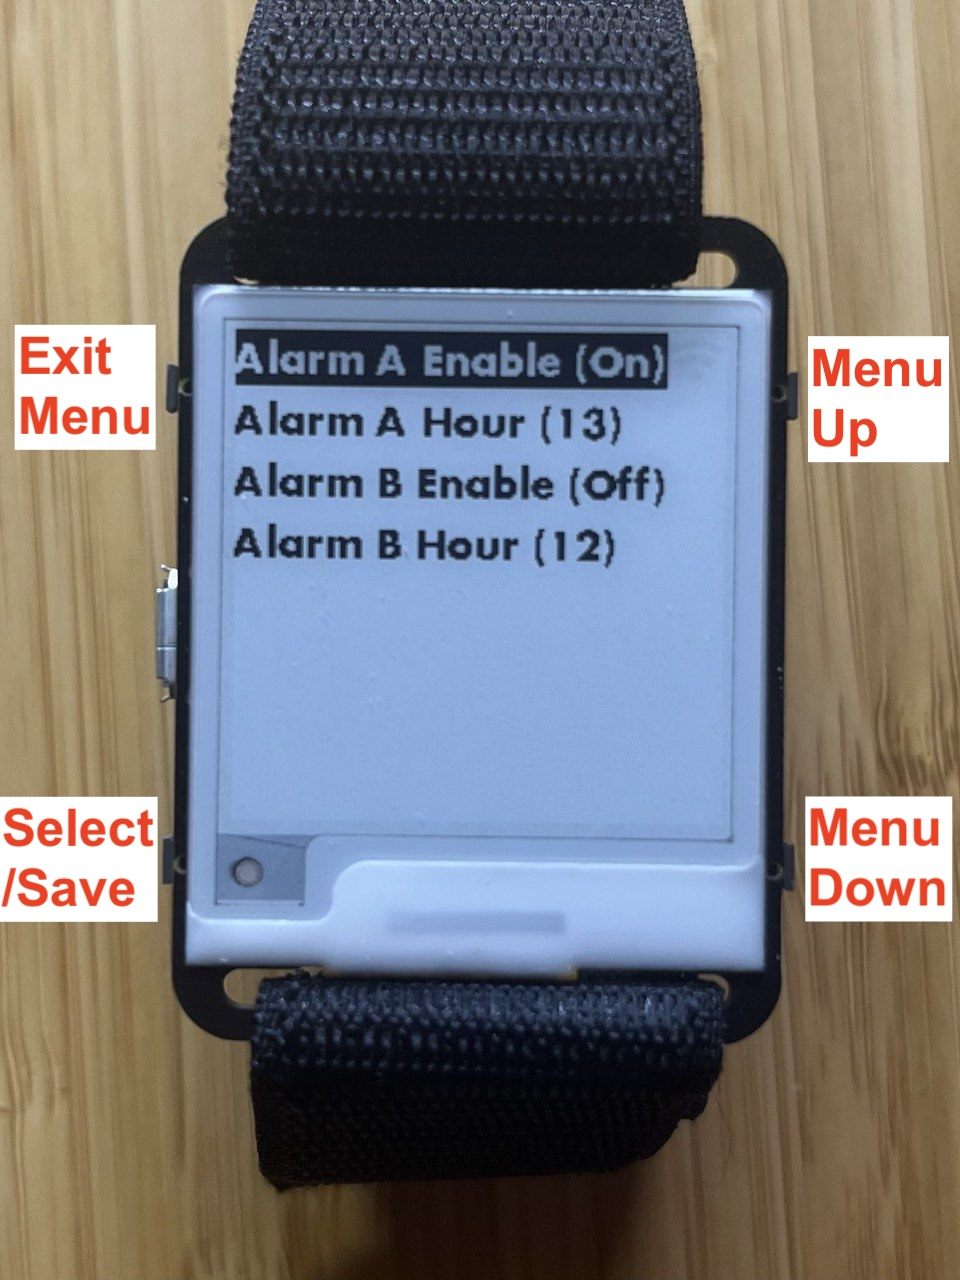
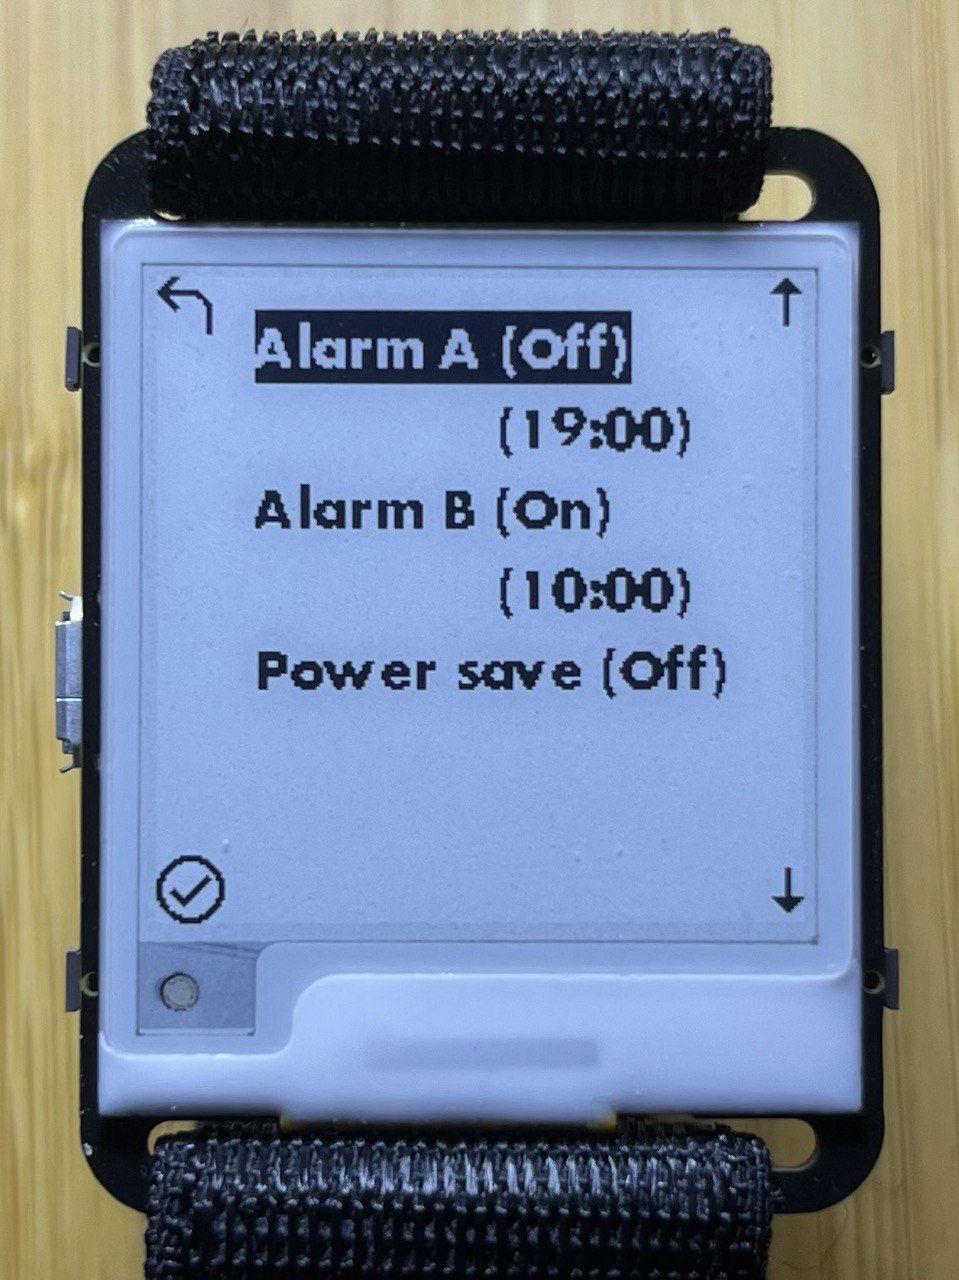
improvements to alarms feature

diff --git a/utils/generate-mdi.js b/utils/generate-mdi.js
@@ -1,39 +1,41 @@
 import * as fs from "fs";
 
-const required = fs
-  .readFileSync("../watchy.yaml")
-  .toString()
-  .match(/"\$mdi\w+?"/g)
-  .map((x) => x.replaceAll('"', "").replaceAll("$", ""));
+export default () => {
+  const required = fs
+    .readFileSync("../watchy.yaml")
+    .toString()
+    .match(/"\$mdi\w+?"/g)
+    .map((x) => x.replaceAll('"', "").replaceAll("$", ""));
 
-console.log(required.length, "icons required");
+  console.log(required.length, "icons required");
 
-function camelize(str) {
-  return str
-    .replace(/(?:^\w|[A-Z]|\b\w)/g, function (word, index) {
-      return index === 0 ? word.toLowerCase() : word.toUpperCase();
-    })
-    .replace(/\s+/g, "");
-}
+  function camelize(str) {
+    return str
+      .replace(/(?:^\w|[A-Z]|\b\w)/g, function (word, index) {
+        return index === 0 ? word.toLowerCase() : word.toUpperCase();
+      })
+      .replace(/\s+/g, "");
+  }
 
-const x = fs
-  .readFileSync("../fonts/mdi/scss/_variables.scss")
-  .toString()
-  .split("(")[1]
-  .split(")")[0]
-  .trim()
-  .split("\n")
-  .map((l) => l.trim().replaceAll('"', "").replaceAll(",", "").replaceAll("-", " ").split(": "))
-  .map(([name, code]) => [camelize("mdi " + name), code])
-  .filter(([name, code]) => required.includes(name));
+  const x = fs
+    .readFileSync("../fonts/mdi/scss/_variables.scss")
+    .toString()
+    .split("(")[1]
+    .split(")")[0]
+    .trim()
+    .split("\n")
+    .map((l) => l.trim().replaceAll('"', "").replaceAll(",", "").replaceAll("-", " ").split(": "))
+    .map(([name, code]) => [camelize("mdi " + name), code])
+    .filter(([name, code]) => required.includes(name));
 
-console.log(x.length);
+  console.log(x.length);
 
-fs.writeFileSync(
-  "../mdi.yaml",
-  x.map(([name, code]) => `${name}: "\\U000${code}"`).join("\n") + "\n"
-);
-fs.writeFileSync(
-  "../mdi.h",
-  x.map(([name, code]) => `const char *${name} = "\\U000${code}";`).join("\n") + "\n"
-);
+  fs.writeFileSync(
+    "../mdi.yaml",
+    x.map(([name, code]) => `${name}: "\\U000${code}"`).join("\n") + "\n"
+  );
+  fs.writeFileSync(
+    "../mdi.h",
+    x.map(([name, code]) => `const char *${name} = "\\U000${code}";`).join("\n") + "\n"
+  );
+};

diff --git a/utils/v2-generate.js b/utils/v2-generate.js
@@ -4,35 +4,37 @@
 import yaml from "yaml";
 import * as fs from "fs";
 
-const v3 = fs.readFileSync("../watchy.yaml", "utf8");
+export default () => {
+  const v3 = fs.readFileSync("../watchy.yaml", "utf8");
 
-const v2 = yaml.parseDocument(
-  v3
-    .replace("pins-v3.yaml", "pins-v2.yaml")
-    .replace("miso_pin: $SPI_MISO_PIN", "")
-    .replaceAll("# - pcf8563.read_time:", "- pcf8563.read_time:")
-    .replaceAll("# - pcf8563.write_time:", "- pcf8563.write_time:"),
-  { uniqueKeys: false }
-);
-
-v2.set("esp32", {
-  board: "esp32dev",
-  partitions: "min_spiffs.csv",
-});
-
-v2.get("time").add({
-  platform: "pcf8563",
-  id: "pcf",
-  update_interval: "never",
-  address: "0x51",
-});
-
-const isCharging = v2
-  .get("binary_sensor")
-  .items.find((x) =>
-    x.items.find((pair) => pair.key.value == "id" && pair.value.value == "is_charging")
+  const v2 = yaml.parseDocument(
+    v3
+      .replace("pins-v3.yaml", "pins-v2.yaml")
+      .replace("miso_pin: $SPI_MISO_PIN", "")
+      .replaceAll("# - pcf8563.read_time:", "- pcf8563.read_time:")
+      .replaceAll("# - pcf8563.write_time:", "- pcf8563.write_time:"),
+    { uniqueKeys: false }
   );
-isCharging.delete("pin");
-isCharging.set("platform", "template");
 
-fs.writeFileSync("../v2-watchy.yaml", v2.toString());
+  v2.set("esp32", {
+    board: "esp32dev",
+    partitions: "min_spiffs.csv",
+  });
+
+  v2.get("time").add({
+    platform: "pcf8563",
+    id: "pcf",
+    update_interval: "never",
+    address: "0x51",
+  });
+
+  const isCharging = v2
+    .get("binary_sensor")
+    .items.find((x) =>
+      x.items.find((pair) => pair.key.value == "id" && pair.value.value == "is_charging")
+    );
+  isCharging.delete("pin");
+  isCharging.set("platform", "template");
+
+  fs.writeFileSync("../v2-watchy.yaml", v2.toString());
+};

diff --git a/utils/run.js b/utils/run.js
@@ -1,0 +1,5 @@
+import v2Generate from "./v2-generate.js";
+import mdiGenerate from "./generate-mdi.js";
+
+v2Generate();
+mdiGenerate();

diff --git a/mdi.h b/mdi.h
@@ -2,6 +2,9 @@ const char *mdiAccountBox = "\U000F0006";
 const char *mdiAirballoon = "\U000F001C";
 const char *mdiAlarmCheck = "\U000F0021";
 const char *mdiAlert = "\U000F0026";
+const char *mdiArrowDownThin = "\U000F19B3";
+const char *mdiArrowLeftTop = "\U000F17A7";
+const char *mdiArrowUpThin = "\U000F19B2";
 const char *mdiBatteryChargingHigh = "\U000F12A6";
 const char *mdiBatteryHigh = "\U000F12A3";
 const char *mdiBatteryLow = "\U000F12A1";
@@ -15,6 +18,7 @@ const char *mdiBicycle = "\U000F109C";
 const char *mdiBird = "\U000F15C6";
 const char *mdiCakeVariantOutline = "\U000F17F0";
 const char *mdiCastle = "\U000F011A";
+const char *mdiCheckCircleOutline = "\U000F05E1";
 const char *mdiCity = "\U000F0146";
 const char *mdiCityVariant = "\U000F0A36";
 const char *mdiClover = "\U000F0816";

diff --git a/README.md b/README.md
@@ -89,34 +89,35 @@ Intentionally, this project does not include any on-watch user settings screens 
 
 <!-- <img src="doc/buttons.jpeg" style="width: 240px; max-width: 95vw; max-height: 95vh" /> -->
 
-#### Upper Left
+#### Upper Left :: Power/Home
 
 - Press: Power On / Silence Alarm
 - 2nd Press: Home / Wifi On / ePaper Refresh
 - Long Press (3s): ePaper Refresh
 - Long Press (5s): Set power-saving mode and go to sleep
 
-#### Upper Right
+#### Upper Right :: Cycle Faces
 
 - Press: Cycle watch faces (digital, hands, roman, info, etc) or QR Codes
 - Long Press (3s): Toggle QR Codes mode
 
-#### Lower Left
+#### Lower Left :: Timers
 
 - Press: Show Timers
 - 2nd Press: Start a new timer (up to 5 timers)
 - Long Press (3s): Cancel last active timer
 - Long Press (5s): Clear all timers
 
-#### Lower Right
+#### Lower Right :: Menu
 
 - Press: Settings Menu
 
 When in Settings Menu mode:
 
-- Menu Up: Upper-Right Button
-- Menu Down: Lower-Right Button
-- Menu Select/Save: Lower-Left Button
+- Upper Right Button: Up
+- Lower Right Button: Down
+- Lower Left Button: Select/Save
+- Upper Left Button: Exit the menu
 
 <div>
 <img src="doc/menu.jpeg" style="width: 200px; max-width: 95vw; max-height: 95vh" />
